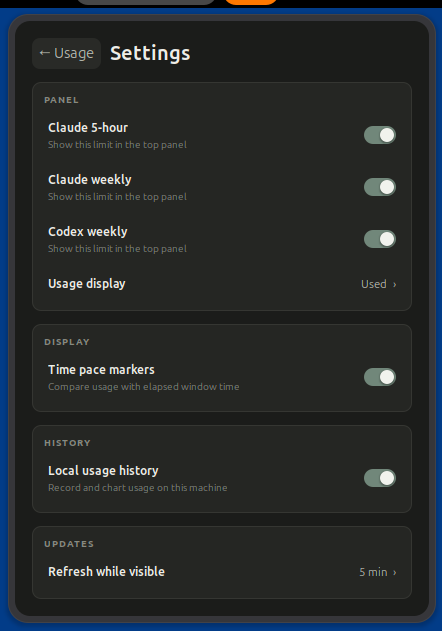
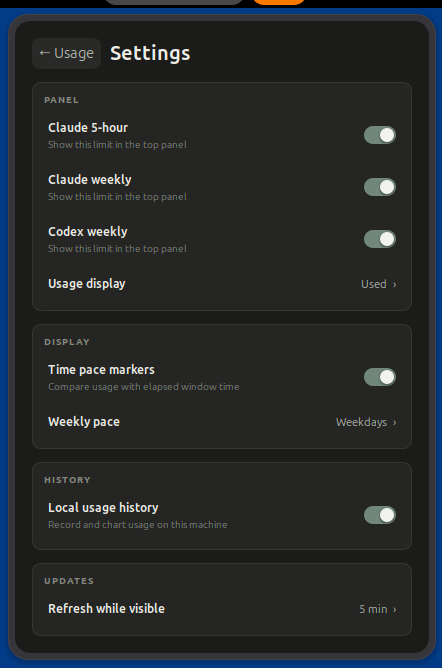
design(surface): add weekly pace choice (SPEC-USAGE-SURFACE SURF-010)

diff --git a/tests/journeys/J-001-primitive-catalog.journey.test.js b/tests/journeys/J-001-primitive-catalog.journey.test.js
@@ -257,8 +257,18 @@ export async function run() {
     assert(paceToggle?.checked &&
         collectLabelText(actors.popover).includes('Time pace markers'),
     'variant A settings expose Time pace enabled by default');
+    const weeklyPace = findActor(actors.popover, 'weekly-pace-choice');
+    assert(weeklyPace?.get_accessible_name() === 'Weekly pace, Every day' &&
+        collectLabelText(weeklyPace).includes('Every day  ›'),
+    'variant A places the default weekly pace choice beneath Time pace');
+    click(weeklyPace, 'weekday pace');
+    await settle();
+    actors = catalog.getCatalogActors();
+    assert(findActor(actors.popover, 'weekly-pace-choice')?.get_accessible_name() ===
+        'Weekly pace, Weekdays',
+    'weekly pace choice exposes its alternate state in place');
     await captureActor(actors.indicator.menu.actor, EXPECTED_CAPTURES[10]);
-    click(paceToggle, 'Time pace off');
+    click(findActor(actors.popover, 'toggle-timePace'), 'Time pace off');
     await settle();
     actors = catalog.getCatalogActors();
     click(findActor(actors.popover, 'back-button'), 'variant A settings back');

diff --git a/design/direction-lab/extension.js b/design/direction-lab/extension.js
@@ -493,6 +493,13 @@ function buildRefinementSettingsPopover({state, tokens, actions,
         onToggle: actions.toggle,
         tokens,
     }));
+    displaySection.add_child(ChoiceRow({
+        id: 'weekly-pace-choice',
+        title: 'Weekly pace',
+        value: `${state.weeklyPace}  ›`,
+        accessibleName: `Weekly pace, ${state.weeklyPace}`,
+        onActivate: actions.cycleWeeklyPace,
+    }));
 
     const historySection = column('selected-settings-section');
     historySection.add_child(label('HISTORY', 'selected-settings-kicker'));
@@ -916,6 +923,10 @@ export default class ClaudexUsageCatalogExtension extends Extension {
             },
             cycleRefreshInterval: () => {
                 this._state.cycleRefreshInterval();
+                this._render();
+            },
+            cycleWeeklyPace: () => {
+                this._state.cycleWeeklyPace();
                 this._render();
             },
             refresh: () => this._render(),

diff --git a/design/direction-lab/catalog-state.js b/design/direction-lab/catalog-state.js
@@ -63,6 +63,7 @@ export class CatalogState {
         this.presentOnly = true;
         this.localHistory = true;
         this.timePace = true;
+        this.weeklyPace = 'Every day';
         this.refinementVariant = null;
     }
 
@@ -91,6 +92,7 @@ export class CatalogState {
         this.view = 'usage';
         this.activeRange = '6h';
         this.timePace = true;
+        this.weeklyPace = 'Every day';
     }
 
     toggle(key) {
@@ -107,6 +109,11 @@ export class CatalogState {
         return this.refreshInterval;
     }
 
+    cycleWeeklyPace() {
+        this.weeklyPace = this.weeklyPace === 'Every day' ? 'Weekdays' : 'Every day';
+        return this.weeklyPace;
+    }
+
     snapshot() {
         return Object.freeze({
             view: this.view,
@@ -118,6 +125,7 @@ export class CatalogState {
             presentOnly: this.presentOnly,
             localHistory: this.localHistory,
             timePace: this.timePace,
+            weeklyPace: this.weeklyPace,
             refinementVariant: this.refinementVariant,
         });
     }

diff --git a/tests/unit/catalog-state.test.js b/tests/unit/catalog-state.test.js
@@ -19,6 +19,7 @@ test('catalog state starts in the selected Direction D review state', () => {
         presentOnly: true,
         localHistory: true,
         timePace: true,
+        weeklyPace: 'Every day',
         refinementVariant: null,
     });
 });
@@ -55,6 +56,12 @@ test('refresh choice cycles deterministically in process-local state', () => {
     assert.equal(state.cycleRefreshInterval(), '10 min');
     assert.equal(state.cycleRefreshInterval(), '15 min');
     assert.equal(state.cycleRefreshInterval(), '5 min');
+});
+
+test('weekly pace cycles between every day and weekdays', () => {
+    const state = new CatalogState();
+    assert.equal(state.cycleWeeklyPace(), 'Weekdays');
+    assert.equal(state.cycleWeeklyPace(), 'Every day');
 });
 
 test('progress geometry clamps, rounds, and stays monotonic at multiple widths', () => {

diff --git a/docs/product/specs/2026-07-16-usage-surface.md b/docs/product/specs/2026-07-16-usage-surface.md
@@ -1,10 +1,10 @@
 ---
 id: SPEC-USAGE-SURFACE
 type: spec
-status: done
+status: draft
 owner: hugo
 created: 2026-07-16
-updated: 2026-07-20
+updated: 2026-07-21
 source_docs:
   - docs/product/briefs/2026-07-16-live-usage.md
   - design/direction-lab/DIRECTION-BRIEF.md
@@ -35,7 +35,8 @@ Acceptance:
   role, and shows newly eligible values without waiting for cadence.
 - **J-002.2** Compact provider cards omit redundant provider detail; each visible
   window shows its percentage, zero-origin bar, reset time, and an optional neutral
-  Time pace marker derived from that window's elapsed time.
+  Time pace marker. Weekly markers follow the selected Every day or Weekdays
+  schedule; shorter rolling windows always follow elapsed clock time.
 - **J-002.3** A refresh icon beside settings requests fresh values and exposes its
   in-flight state. Freshness, reset copy, and Time pace advance while visible without
   a provider request.
@@ -57,10 +58,13 @@ Acceptance:
   percentage immediately while retaining used percentages as canonical source data.
 - **J-003.4** A global Time pace setting defaults on and removes or restores every
   marker immediately without a provider refresh.
-- **J-003.5** The refresh-cadence row presents a fixed enumerated choice set and
+- **J-003.5** A weekly-pace schedule defaults to Every day; choosing Weekdays updates
+  weekly markers immediately, excludes local Saturdays and Sundays, and leaves
+  shorter rolling-window markers unchanged.
+- **J-003.6** The refresh-cadence row presents a fixed enumerated choice set and
   applies the selection without restart.
-- **J-003.6** Visibility, usage-display, Time pace, and cadence choices survive a
-  GNOME Shell restart via the storage named in Architecture.
+- **J-003.7** Visibility, usage-display, Time pace, weekly-pace schedule, and cadence
+  choices survive a GNOME Shell restart via the storage named in Architecture.
 
 ## Surface Map
 
@@ -74,8 +78,8 @@ Acceptance:
 - Current and historical percentages — selected Used or Left presentation without
   changing provider or history data.
 - Unavailable card state — dimmed textual notice, no values.
-- Settings view — back action, three limit-visibility rows, refresh-cadence and
-  usage-display choices, plus the global Time pace switch.
+- Settings view — back action, three limit-visibility rows, refresh-cadence,
+  usage-display, and weekly-pace choices, plus the global Time pace switch.
 
 ## Cross-Journey Acceptance
 
@@ -86,6 +90,8 @@ Acceptance:
 
 Canonical reference: [Usage refinement, variant A — Quiet Utility](../../../design/direction-lab/USAGE-REFINEMENT-EXPLORATION.md#variant-a--quiet-utility),
 within [Direction D — Selected Blend](../../../design/direction-lab/DIRECTION-BRIEF.md#d--selected-blend).
+The approved settings composition places the Weekly pace `ChoiceRow` directly beneath
+the existing Time pace switch.
 
 Primitives composed: `PopoverScaffold`, `PanelIndicator`, `ProviderGroup`,
 `ProviderCard`, `UsageMetric`, `ProgressBar`, `IconButton`, `SettingsRow`,
@@ -100,7 +106,8 @@ ProgressBar marker. Shared changes land only in their owning slices.
 - API: [API contracts](../../engineering/api-contracts.md) — delta: add the
   fixed duration of each declared provider window for Time pace presentation.
 - Data: [data model](../../engineering/data-model.md) — delta: persisted panel
-  preferences add one global, default-on Time pace boolean; no pace value is stored.
+  preferences add one global, default-on Time pace boolean and one default Every day
+  weekly-pace schedule; no pace value is stored.
 - Decisions: [decision log](../../engineering/decision-log.md) — cadence value set
   and default, production extension UUID; recorded at implementation.
 
@@ -149,6 +156,10 @@ ProgressBar marker. Shared changes land only in their owning slices.
   built-ins, and derive bounded elapsed percentage. Medium: ≤12 files / 500 lines.
 - [x] `SURF-009` — add default-on Time pace markers that follow Used/Left and the
   visible tick without changing usage. Medium: ≤15 files / 800 lines.
+- [ ] `SURF-010` — persist an Every day or Weekdays weekly-pace schedule and apply it
+  immediately to weekly markers using the local calendar while shorter rolling
+  windows retain elapsed-clock pace. Medium: one temporal presentation invariant,
+  at most 15 edited files and 700 handwritten lines. Depends on `SURF-009`.
 
 ## Non-Scope
 

diff --git a/docs/product/journeys.md b/docs/product/journeys.md
@@ -39,7 +39,9 @@ Owning Spec: [SPEC-USAGE-SURFACE](specs/2026-07-16-usage-surface.md)
    and Claude's compact 5-hour value is visually quieter than its weekly value.
 2. The user opens the popup and reviews compact provider cards: each named window has
    its percentage, zero-origin bar, reset time, and — while Time pace is enabled — a
-   neutral marker comparing utilization with elapsed window time.
+   neutral marker comparing utilization with elapsed window time. Weekly markers use
+   the selected Every day or Weekdays schedule; shorter rolling windows always use
+   elapsed clock time.
 3. The user triggers the refresh action beside settings; its busy state, current
    values, freshness text, reset countdowns, and time markers update in place without
    the popup closing, moving keyboard focus, collapsing an open range select, or a
@@ -61,10 +63,13 @@ Owning Spec: [SPEC-USAGE-SURFACE](specs/2026-07-16-usage-surface.md)
    while recorded usage remains unchanged.
 4. The user turns Time pace off or on; every current bar removes or restores its
    marker immediately without refreshing a provider.
-5. The user changes the refresh-cadence choice; the new cadence applies without a
+5. The user changes weekly pace from Every day to Weekdays; weekly markers update
+   immediately around local weekends while shorter rolling-window markers do not
+   change.
+6. The user changes the refresh-cadence choice; the new cadence applies without a
    restart.
-6. After GNOME Shell restarts, the panel and popup honor the persisted visibility,
-   usage-display, Time pace, and cadence choices.
+7. After GNOME Shell restarts, the panel and popup honor the persisted visibility,
+   usage-display, Time pace, weekly-pace schedule, and cadence choices.
 
 ## J-004 — See Codex usage
 

diff --git a/design/direction-lab/USAGE-REFINEMENT-EXPLORATION.md b/design/direction-lab/USAGE-REFINEMENT-EXPLORATION.md
@@ -13,6 +13,8 @@ contains no provider access, polling, or production persistence.
 - Make Claude's compact 5-hour value quieter than its weekly value.
 - Compare usage with elapsed window time through a neutral marker when the global
   Time pace setting is on.
+- Keep the Time pace switch and place one Weekly pace choice directly beneath it;
+  Every day is the default and Weekdays is the alternate.
 - Keep the marker advisory: no target, forecast, alert, or ahead/behind judgment.
 
 ## Variant A — Quiet Utility
@@ -25,7 +27,7 @@ the window.
 
 Refresh feedback swaps the circular-arrow icon to its busy state without adding
 completion animation or moving text. Settings expose **Time pace markers** as one
-global switch, default on.
+global switch, default on, with the **Weekly pace** choice directly beneath it.
 
 Review captures:
 
@@ -65,8 +67,8 @@ Review captures:
 
 **Introduces:** compact select menu; optional provider detail; per-value panel tone;
 IconButton busy state; status-only FooterStatus; optional neutral ProgressBar marker.
-No new token is proposed: existing muted foreground, separator, focus, spacing,
-radius, and type roles cover all three variants.
+The Weekly pace setting reuses `ChoiceRow`. No new token is proposed: existing muted
+foreground, separator, focus, spacing, radius, and type roles cover all three variants.
 
 **CANONICAL: variant A — Quiet Utility keeps every requested signal visible with the
 least repeated copy and no new token role. Owner confirmed 2026-07-19.**

diff --git a/docs/product/briefs/2026-07-16-live-usage.md b/docs/product/briefs/2026-07-16-live-usage.md
@@ -4,7 +4,7 @@ type: product-brief
 status: delivered
 owner: hugo
 created: 2026-07-16
-updated: 2026-07-17
+updated: 2026-07-21
 source_docs:
   - docs/product/pitch.md
   - docs/product/feature-horizon.md
@@ -78,6 +78,9 @@ capability:
   spec and decision-log territory.
 - Time pace is an optional visual comparison between utilization and the elapsed
   portion of a provider window. It is not a quota target, forecast, or alert.
+- Weekly Time pace can follow every day or local weekdays so a user's chosen working
+  schedule, rather than weekends, determines the comparison; shorter rolling windows
+  always follow elapsed clock time.
 
 ## Feature Bundles
 